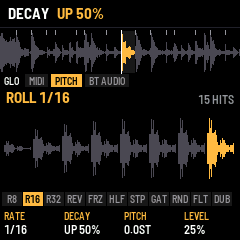
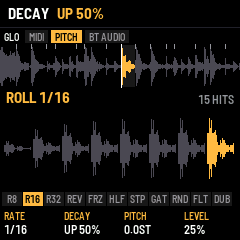
The tab bar right under the header, on every page
The tabs (the button, the page's parts) move from under the waveform to
straight under the header (rows 30-43), the waveform under them (44-87),
the same on every page. Tap tempo draws its tab there too (its own at its
foot goes) and its display and metronome sit lower (44-191). Screenshots,
the manual, the control map's screen and the PRD (B-49) follow.

Claude-Session: https://claude.ai/code/session_01YWuRNut7ZhYpQRsULF21Ph

diff --git a/app/site/controlmap.html b/app/site/controlmap.html
@@ -34,8 +34,8 @@
 .cmap .zone { position: absolute; left: 0; right: 0; display: flex; align-items: center; padding: 0 6px; font-size: 9px; letter-spacing: .03em; }
 .cmap .z-head { top: 0; height: 11.7%; border-bottom: 1px solid #2a2a2a; color: #fff; justify-content: space-between; }
 .cmap .z-head b { color: var(--amber); font-weight: 500; }
-.cmap .z-wave { top: 12.5%; height: 18.3%; }
-.cmap .z-tabs { top: 30.8%; height: 5.8%; gap: 3px; font-size: 7px; color: #fff; }
+.cmap .z-wave { top: 18.3%; height: 18.3%; }
+.cmap .z-tabs { top: 12.5%; height: 5.8%; gap: 3px; font-size: 7px; color: #fff; }
 .cmap .z-tabs span { background: #1f1f1f; color: #9a9a9a; padding: 1px 3px; border-radius: 1px; }
 .cmap .z-tabs span.on { background: var(--amber); color: #000; }
 .cmap .z-tabs em { margin-left: auto; color: var(--amber); font-style: normal; }
@@ -231,8 +231,7 @@
       (p.part ? "<em>&lt; " + (p.id === "edit" ? s.n.split(" · ")[1] : "TREMOLO") + " &gt;</em>" : "");
     $("strip").innerHTML = s.strip + (s.note ? "<em>" + s.note + "</em>" : "");
     $("knobs").innerHTML = s.k.map((k, i) => k ? "<div>" + k + "<b>·····</b></div>" : '<div class="empty">K' + (i + 1) + "<b>&nbsp;</b></div>").join("");
-    $("zones").innerHTML = [["HEADER", "Break, pattern, REC, tempo, meter", 1], ["WAVEFORM", "The break, the slice lit, the playhead", 1],
-      ["TABS", p.btn + " › " + tabs.join(" · "), 0],
+    $("zones").innerHTML = [["HEADER", "Break, pattern, REC, tempo, meter", 1], ["TABS", p.btn + " › " + tabs.join(" · "), 0], ["WAVEFORM", "The break, the slice lit, the playhead", 1],
       ["STRIP", s.strip.toLowerCase(), 0], ["PADS", "11 pads, lit while held", 1], ["KNOBS", s.k.map(k => k || "—").join(" · "), 0]]
       .map(([a, b, same]) => "<div><dt>" + a + '</dt><dd class="' + (same ? "same" : "") + '">' + b + "</dd></div>").join("");
     const encs = [["SELECT", "Tempo (SEL: 0.1)", "on"], ["ALGORITHM", p.algo, "on"], ["PRESETS", p.presets, "on"]]

diff --git a/app/ui/screen.c b/app/ui/screen.c
@@ -109,7 +109,7 @@ static void intro_draw(uint32_t now)
     }
 }
 
-/* TAP TEMPO (ENV): the whole screen between the header and the pads. The tempo on an LED display (seven-segment
+/* TAP TEMPO (ENV): the whole screen between the tab bar and the pads. The tempo on an LED display (seven-segment
  * digits drawn as bevelled bars, the unlit ones a ghost), a metronome swinging in time (its bob lit on each beat,
  * white on the bar's first), a ripple from its pivot on each tap. The display redraws when the tempo or the taps
  * change; the metronome about 25 times a second */
@@ -163,36 +163,36 @@ static void draw_tap(const brk_status_t *st, uint32_t now, int full)
     sw = 0.42f * brk_sin_turns(beats * 0.5f + 0.25f);   /* the swing: at an end on each beat (radians) */
     px = 120;
     py = 186;
-    bx = px + (int32_t)(82.0f * brk_sin_turns(sw * 0.159155f));
-    by = py - (int32_t)(82.0f * brk_sin_turns(sw * 0.159155f + 0.25f));
+    bx = px + (int32_t)(68.0f * brk_sin_turns(sw * 0.159155f));
+    by = py - (int32_t)(68.0f * brk_sin_turns(sw * 0.159155f + 0.25f));
     for (band = full || sig != a_sig ? 0u : 1u; band < 3u; band++) {
-        int32_t top = 30 + (int32_t)band * 60, h = band < 2u ? 60 : 42;
+        int32_t top = 44 + (int32_t)band * 60, h = band < 2u ? 60 : 28;
         cv_begin(240, (uint32_t)h, C_BLACK);
         cv_oy = -top;                    /* (screen rows: the canvas shows top..top + h - 1) */
         if (band == 0u) {                /* the display: TAP TEMPO, the taps, the tempo, BPM */
             uint16_t on = flash ? C_WHITE : ext ? C_GRAY : C_HI;
             int32_t x = 14;
-            tp_digit(x, 36, v >= 1000u ? (int)(v / 1000u) : -1, on);
-            tp_digit(x + 38, 36, v >= 100u ? (int)(v / 100u % 10u) : -1, on);
-            tp_digit(x + 76, 36, (int)(v / 10u % 10u), on);
-            cv_rect(x + 112, 80, 6, 6, on);                     /* the point */
-            tp_digit(x + 124, 36, (int)(v % 10u), on);
+            tp_digit(x, 50, v >= 1000u ? (int)(v / 1000u) : -1, on);
+            tp_digit(x + 38, 50, v >= 100u ? (int)(v / 100u % 10u) : -1, on);
+            tp_digit(x + 76, 50, (int)(v / 10u % 10u), on);
+            cv_rect(x + 112, 94, 6, 6, on);                     /* the point */
+            tp_digit(x + 124, 50, (int)(v % 10u), on);
             for (i = 0; i < 8; i++)      /* this run's taps, two rows of four */
-                cv_rect(186 + (i & 3) * 11, 40 + (i >> 2) * 10, 8, 7, (uint32_t)i < ui.ntaps ? C_HI : C_LINE);
-            cv_text(186, 70, &FONT_XS, ext ? "EXT" : "BPM", ext ? C_AMB : C_GRAY);
+                cv_rect(186 + (i & 3) * 11, 54 + (i >> 2) * 10, 8, 7, (uint32_t)i < ui.ntaps ? C_HI : C_LINE);
+            cv_text(186, 84, &FONT_XS, ext ? "EXT" : "BPM", ext ? C_AMB : C_GRAY);
         }
         if (band >= 1u) {                /* the metronome */
-            for (i = 94; i < 190; i++) { /* its body: a tall triangle, the apex up */
-                int32_t w = (i - 94) * 58 / 96;
+            for (i = 106; i < 190; i++) { /* its body: a tall triangle, the apex up */
+                int32_t w = (i - 106) * 52 / 84;
                 cv_rect(px - w, i, 2 * w + 1, 1, RGB(30, 26, 20));
                 cv_rect(px - w - 1, i, 2, 1, C_LINE);
                 cv_rect(px + w, i, 2, 1, C_LINE);
             }
             for (i = 0; i < 5; i++)      /* its scale, down the middle */
-                cv_rect(px - 6 + (i & 1) * 2, 120 + i * 11, 13 - (i & 1) * 4, 2, C_LINE);
+                cv_rect(px - 6 + (i & 1) * 2, 126 + i * 10, 13 - (i & 1) * 4, 2, C_LINE);
             if (ui.tap_last && now - ui.tap_last < 320u) {   /* a tap: a ripple from the pivot */
                 uint32_t age = now - ui.tap_last;
-                tp_circle(px, py, 12 + (int32_t)age / 4, age < 160u ? C_HI : C_AMB);
+                tp_circle(px, py, 12 + (int32_t)age / 5, age < 160u ? C_HI : C_AMB);
             }
             for (i = 0; i <= 40; i++)    /* the arm */
                 cv_rect(px + (bx - px) * i / 40 - 1, py + (by - py) * i / 40 - 1, 3, 3, C_GRAY);
@@ -221,12 +221,8 @@ static void draw_tap(const brk_status_t *st, uint32_t now, int full)
                 cv_rect(48, 140, 30, 3, C_BLOCK);
                 cv_rect(48, 140, (int32_t)set.click * 30 / 100, 3, C_HI);
             }
-            cv_text(8, 156, &FONT_XS, ext ? "EXT CLOCK" : "TAP: ENV / KEYS", C_DIM);
-            {                            /* the page's tab, as on every other page */
-                int32_t x = cv_text(8, 176, &FONT_T, "ENV", C_WHITE) + 6, w = text_w(&FONT_T, "TAP TEMPO") + 8;
-                cv_rect(x, 175, w, 13, C_HI);
-                cv_text(x + 4, 176, &FONT_T, "TAP TEMPO", C_BLACK);
-            }
+            cv_text(8, 162, &FONT_XS, ext ? "EXT CLOCK" : "TAP: ENV", C_DIM);
+            cv_text(8, 176, &FONT_XS, ext ? "" : "OR ANY KEY", C_DIM);
             if (st->playing && !ext) {   /* the beat at the right: 1 (white) .. 4 */
                 char t[2] = {(char)('1' + (beat & 3)), 0};
                 cv_text(200, 140, &FONT_XS, "BEAT", C_GRAY);
@@ -366,8 +362,8 @@ static void draw_head(const brk_status_t *st, const brk_break_t *b, uint32_t now
     cv_blit(0, 0);
 }
 
-/* the whole break: its waveform, the slice markers, the slice sounding lit, the playhead (44 rows: the tab bar goes
- * under it) */
+/* the whole break: its waveform, the slice markers, the slice sounding lit, the playhead (44 rows, under the tab
+ * bar) */
 static void draw_wave(const brk_status_t *st, const brk_break_t *b)
 {
     uint32_t i;
@@ -390,7 +386,7 @@ static void draw_wave(const brk_status_t *st, const brk_break_t *b)
         if (st->slice >= 0)
             cv_rect((int32_t)((uint32_t)st->pos * 240u / b->len), 0, 1, 44, C_WHITE);
     }
-    cv_blit(0, 30);
+    cv_blit(0, 44);
 }
 
 static void draw_blocks(const brk_status_t *st, uint32_t keys)

diff --git a/app/ui/main.c b/app/ui/main.c
@@ -594,7 +594,7 @@ static void knob_value(int i, char *t)  /* the page's knob i (0..3), as shown un
         fx_value(ui.fx_focus, i, t);
 }
 
-/* the tab bar under the waveform: the button's name, then the page's parts as tabs (the one you are on lit: the
+/* the tab bar under the header: the button's name, then the page's parts as tabs (the one you are on lit: the
  * button again, or ALGORITHM, goes to the next); EDIT and FX also name the part edited, "< SUB FX >" */
 static int32_t tab(int32_t x, const char *s, int on)
 {
@@ -620,6 +620,8 @@ static void draw_tabs(void)
         x = tab(x, "PERFORM", ui.page == PG_HOME);
         tab(x, "GENERATOR", ui.page == PG_GEN);
     }
+    else if (ui.page == PG_TAP)
+        tab(x, "TAP TEMPO", 1);
     else if (ui.page == PG_GLOBAL)
         for (i = 0; i < 3u; i++)
             x = tab(x, GPART[i], i == ui.gpage);
@@ -647,7 +649,7 @@ static void draw_tabs(void)
         text_cat(t, " >");
         cv_text(236 - text_w(&FONT_T, t), 1, &FONT_T, t, C_HI);
     }
-    cv_blit(0, 74);
+    cv_blit(0, 30);                      /* (right under the header, on every page) */
 }
 
 /* the header, when a page opens or turns to another part: the button as printed and the part as its tab shows it
@@ -723,8 +725,7 @@ static void draw_foot(const brk_status_t *st)
                                               {"TEMPO", "FINE", "HALF / X2", "CLICK"}};
     uint32_t i;
     char t[16];
-    if (ui.page != PG_TAP)               /* (TAP draws those rows itself) */
-        draw_tabs();
+    draw_tabs();
     cv_begin(240, 48, C_BLACK);
     for (i = 0; i < 11u; i++) {
         int on = (st->pads >> i) & 1u;
@@ -809,7 +810,7 @@ void app_frame(void)
         }
     }
     if ((ui.page == PG_TAP) != (ui.drawn_page == PG_TAP)) {   /* into or out of TAP: the whole screen again */
-        lcd_fill(0, 30, 240, 162, C_BLACK);
+        lcd_fill(0, 44, 240, 148, C_BLACK);
         ui.redraw = RG_ALL;
     }
     ui.drawn_page = ui.page;

diff --git a/docs/PRD.md b/docs/PRD.md
@@ -279,7 +279,7 @@ on the keys, eyes on the crowd.
 | B-47 | **SEL pressed alone** (held a second until 3 Nov 2026, when tap tempo left SEL): the strip lists the SEL combinations (FX page: SEL + FX, FX + ALGO); SEL again, or any other button, key or knob, closes it | P2 | *Done; scenario controls.txt* |
 | B-50 | **EDIT's drums show their waveforms** (3 Nov 2026): the lower strip's three boxes each draw one hit of the drum (`kick_shape`, `perc_shape`: offline, worked out again when its settings change), over a window fitting its decay, as tall as the box | P2 | *Done; engine test: perc_shape a hit, then its tail* |
 | B-48 | **SEQ sequences, EDIT designs** (3 Nov 2026, the user's call): the drums' steps live on SEQ's lanes only (the white keys play slices on every other page); EDIT holds the kick, the snare and the hat (EDIT again: the next drum; ALGORITHM the drum's part: the kick's 11 = MIX, each layer and its FX, MACRO, OUT; the snare's / hat's SOUND, SHAPE); the lower strip shows the three drums, lit on their hits. ENV went to tap tempo (A-38) | P1 | *Done; scenarios kick.txt, perc.txt* |
-| B-49 | **A tab bar** replaces B-41's dots: under the waveform (now 32 rows), the button's name as printed, then the page's parts as tabs (the one you are on filled amber), and on EDIT / FX the part edited, "< SUB FX >"; the help line (B-43) under it | P1 | *Done* |
+| B-49 | **A tab bar** replaces B-41's dots: right under the header on every page (since 3 Nov 2026; first under the waveform), tap tempo's too, the button's name as printed, then the page's parts as tabs (the one you are on filled amber), and on EDIT / FX the part edited, "< SUB FX >"; the help line (B-43) under it | P1 | *Done* |
 
 ### 5.4 Performance screen (HOME)
 

diff --git a/app/docs/MANUAL.md b/app/docs/MANUAL.md
@@ -48,12 +48,12 @@ The slicer view, top to bottom:
 - **Header:** play or stop, the break's name, the pattern (P1–P16; "P2>" while P2 waits for the loop's end), REC
   while recording, a level meter (left and right, what leaves after MASTER: amber from
   −8 dB, white near full scale), the tempo.
-- **The break:** its waveform, the slice markers, the slice sounding lit, the playhead.
 - **Tabs:** the button you pressed (as printed on the panel), then the page's parts as tabs, the one you are on lit:
   the button again (or ALGORITHM) goes to the next. On EDIT and FX the part edited shows at the right, "< SUB FX >".
   Opening a page, or turning to another part, says the same in the header for a moment: the button, then the part
-  ("GLO PITCH", "EDIT KICK SUB FX", "FX SLOT 2 TREMOLO", "SEQ HAT"). ENV's tap tempo, which takes the whole screen,
-  keeps its tab at its foot.
+  ("GLO PITCH", "EDIT KICK SUB FX", "FX SLOT 2 TREMOLO", "SEQ HAT"). The tabs sit right under the header on every
+  page, tap tempo's too.
+- **The break:** its waveform, the slice markers, the slice sounding lit, the playhead.
 - **Slice blocks:** sixteen blocks, one per white key, each with its slice's waveform. The slice sounding is lit;
   a key held is outlined; a dot marks a key with a loop of its own (§3, key loops).
 - **Pads:** the eleven black-key pads, lit while held.
